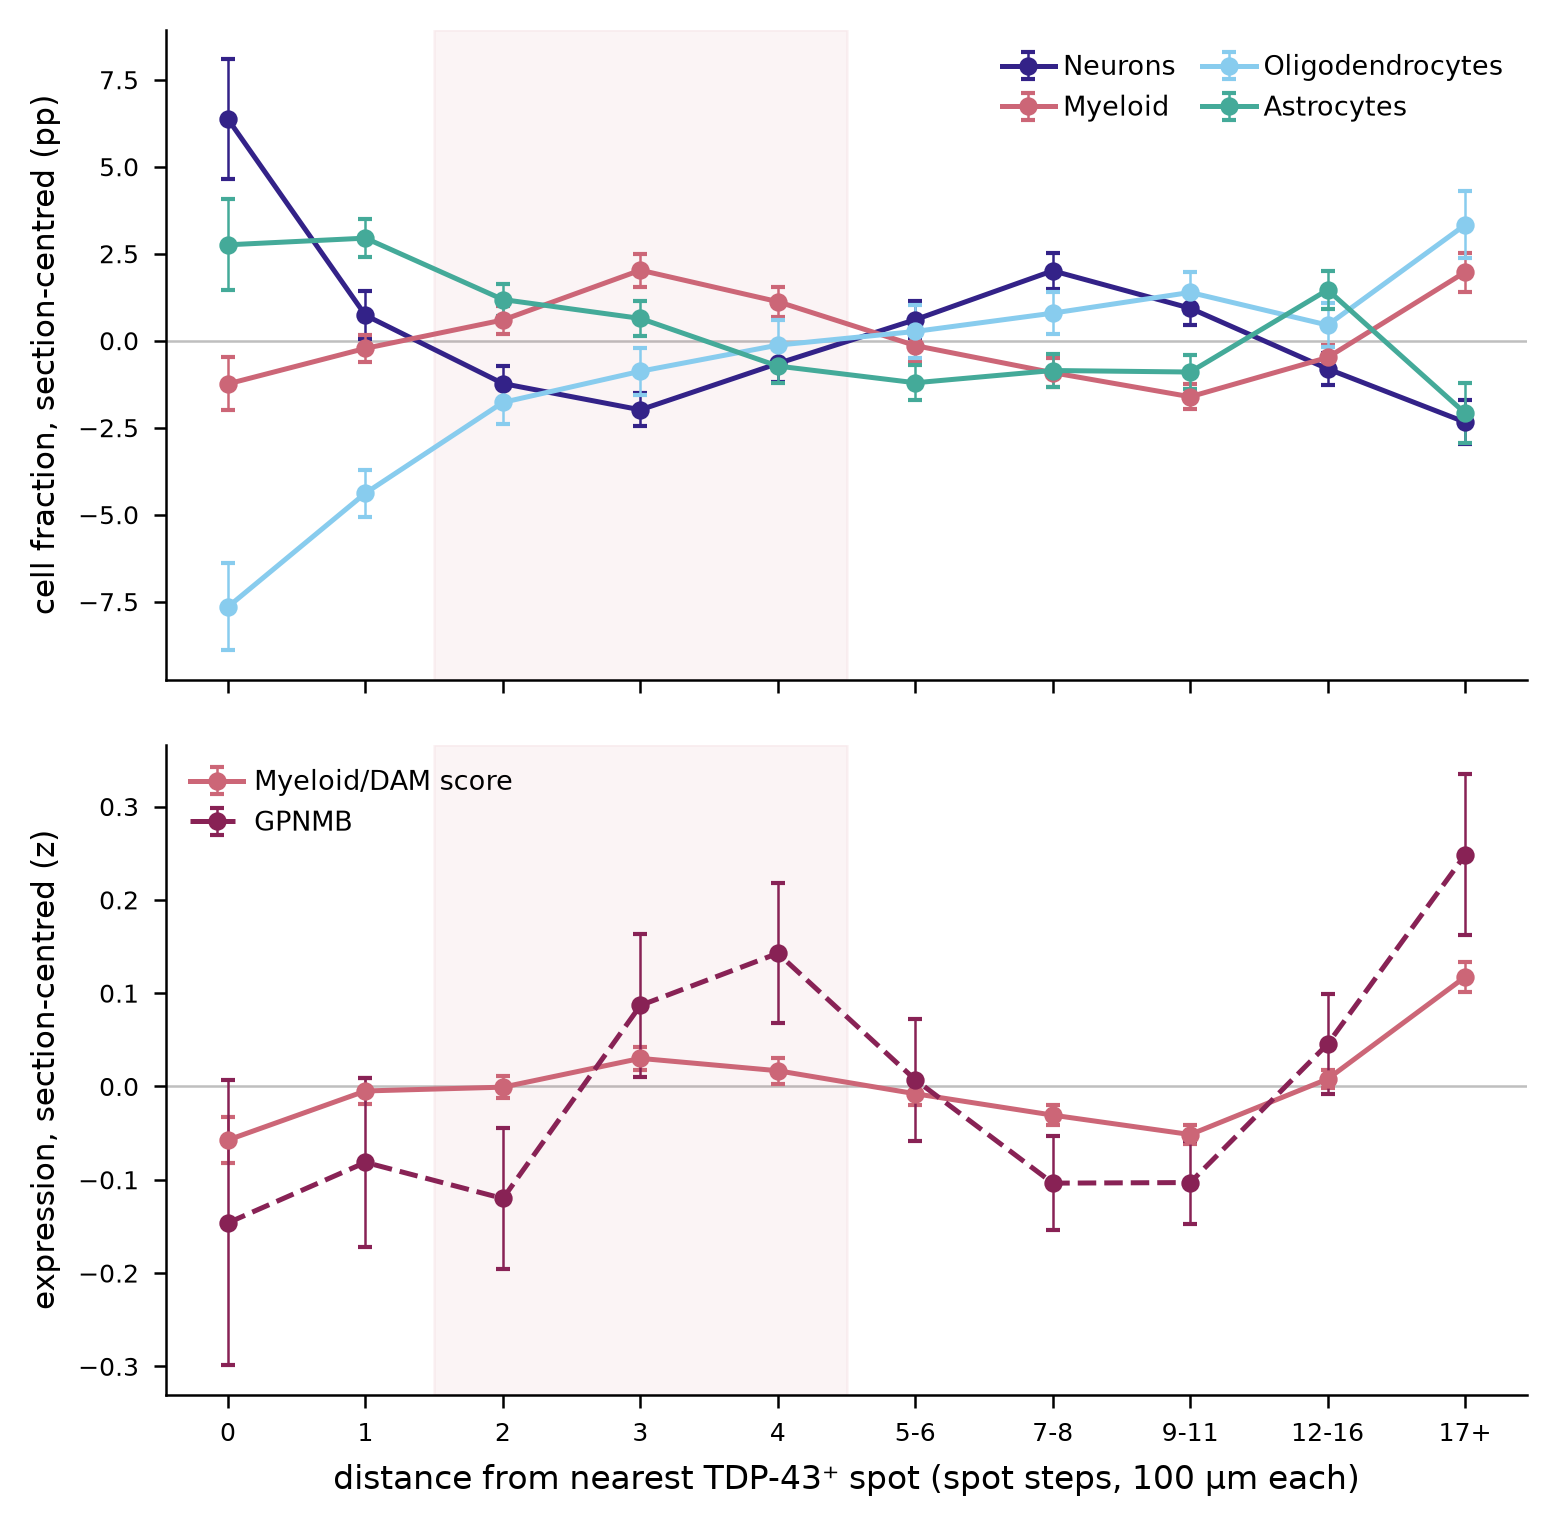
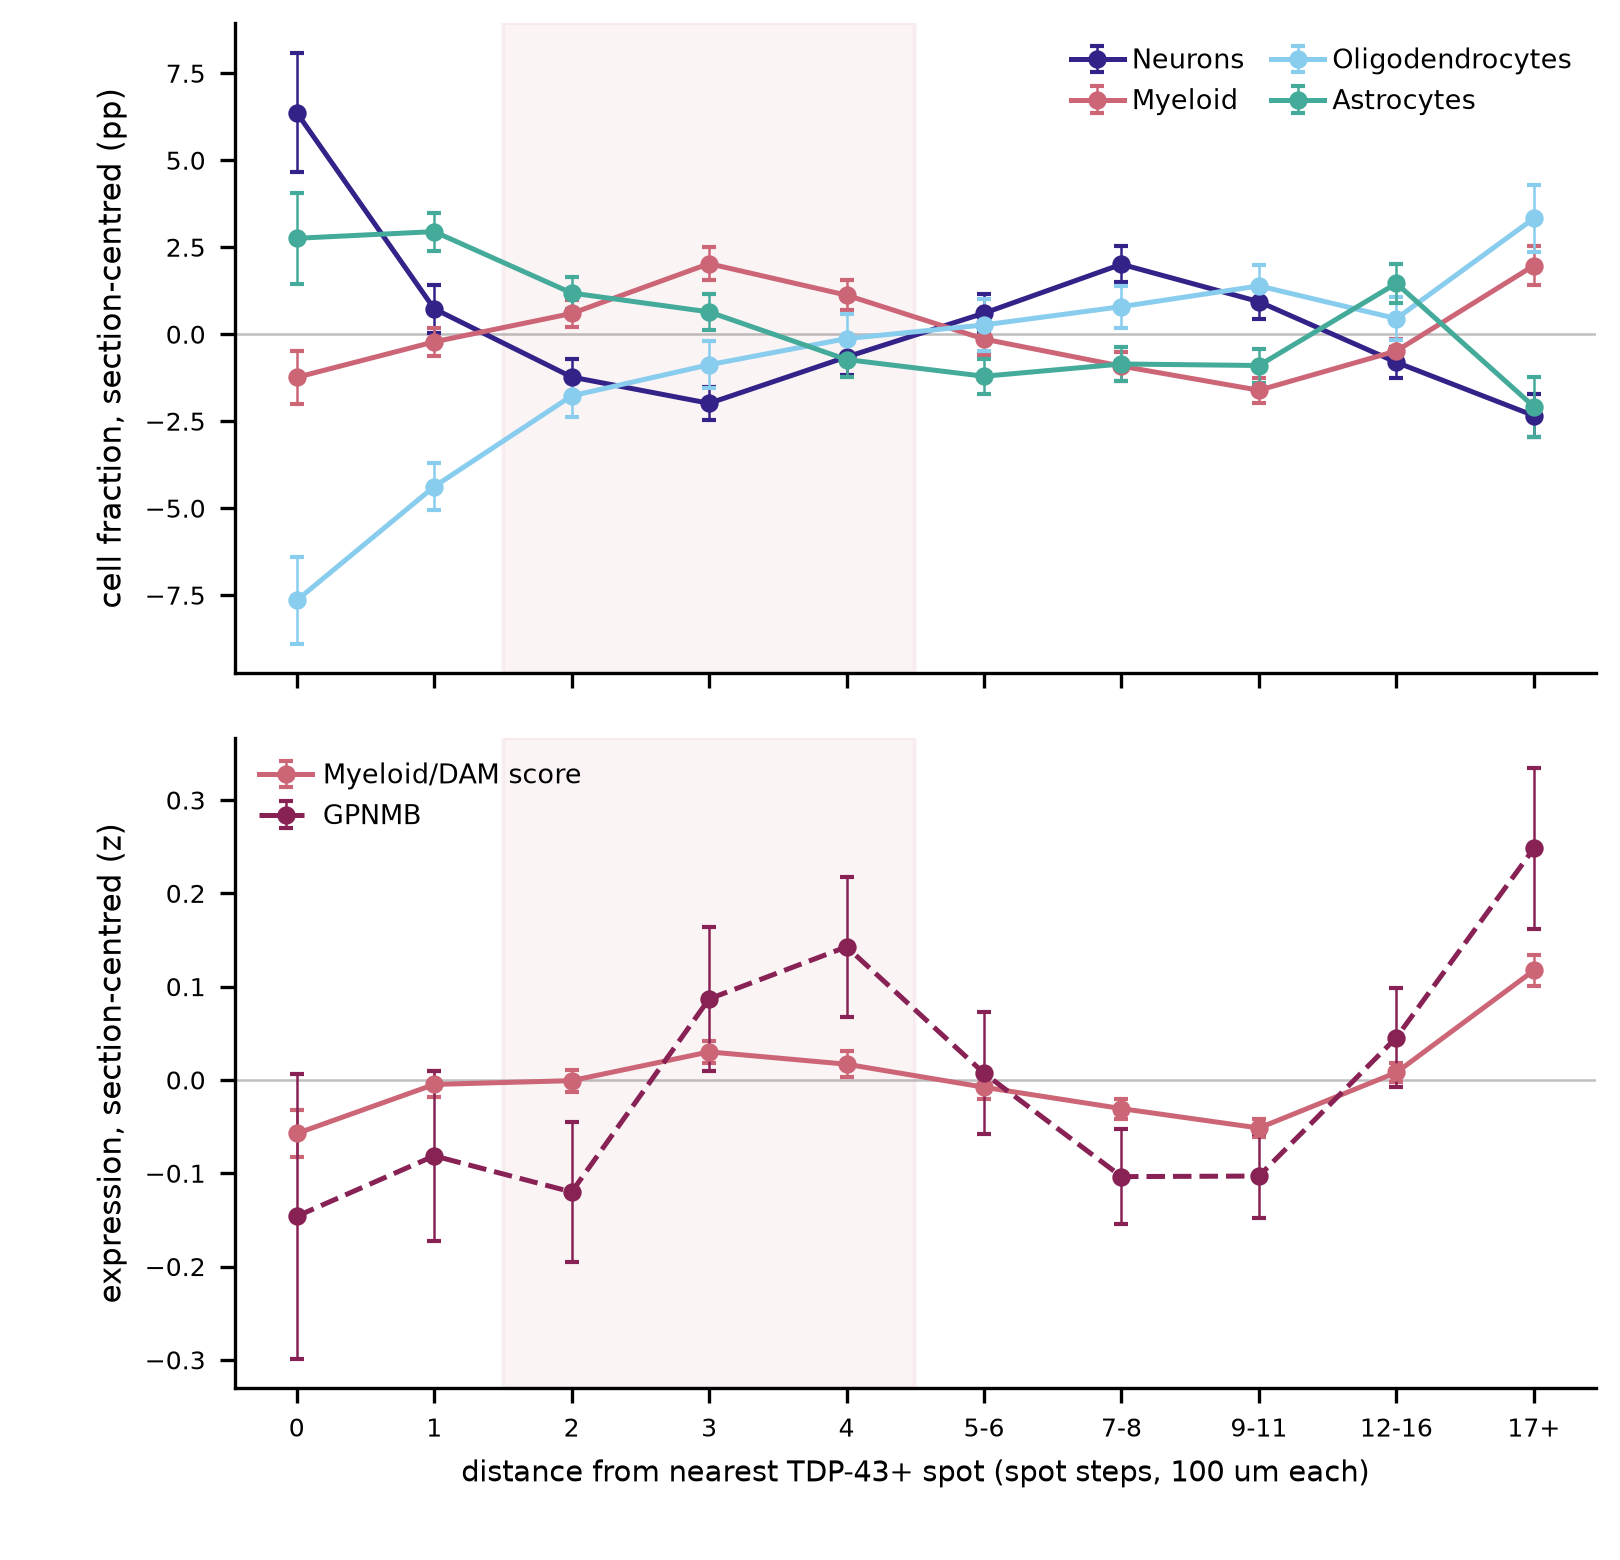
Save TDP-43 perilesional analysis: stage 23 script + resume note (parked, not for SfN)

diff --git a/code/analysis/23_tdp43_perilesional.py b/code/analysis/23_tdp43_perilesional.py
@@ -1,0 +1,214 @@
+#!/usr/bin/env python
+"""
+Stage 23 (spatial arm): perilesional structure around TDP-43 pathology.
+
+MOTIVATION
+Stages 17 and 22 reported TDP-43 coupling as an honest negative. Both tested a
+MONOTONE relationship (grade ladder; proximal vs matched-distant), which cannot
+detect a peak at an intermediate radius. This stage re-examines the question at
+fine distance resolution inside the authors' annotated neighbourhood.
+
+KEY FACT ESTABLISHED HERE (geometry, not assumption)
+The authors' `auth_tdp43_a2_d2` levels are concentric dilation rings around
+manually marked TDP-43+ spots, identical to the micron in every section:
+    TDP43_positive   0 um    the spot itself (90 spots cohort-wide)
+    TDP43_adjacent   112 um  ring 1
+    Ring             200 um  ring 2      <- NOT a severity tier; a dilation ring
+    TDP43_distant    330 um  ring 3
+    Not_selected     ~2600 um median
+`auth_annotation_general` merges positive+adjacent into one "TDP43_adjacent"
+level (472 spots) = the paper's binary "TDP-43+" class.
+
+RESULT
+Within the anterior horn of the 4 lesion-richest sections, myeloid cell fraction
+and the Myeloid/DAM program form a HALO: the TDP-43+ spot itself is neuron-
+dominated (+6.4 pp neurons, -1.2 pp myeloid vs section mean) while myeloid
+peaks at ring 3-4 (300-400 um, +2.0 pp) and troughs at rings 9-11 (-1.6 pp).
+The gain is myeloid-SPECIFIC: at ring 3 neurons fall 2.0 pp and myeloid gains
+2.0 pp while oligodendrocytes still LOSE 0.9 pp and astrocytes gain 0.6 pp.
+Present in 3 of 4 sections; reversed in S4_GW35, whose lesions are 63% in the
+POSTERIOR horn so its anterior-horn distance field is anchored on few centres.
+
+CAVEATS
+- Spot-level and pseudoreplicated: the evidence is section consistency, not p.
+- Peak at 300-400 um is further than microglial process reach (~50-100 um), so
+  this is a local reactive field, not direct perineuronal ensheathment.
+- The rightmost distance bin (17+ rings) rises again for BOTH myeloid and
+  oligodendrocytes: that is the anterior-horn periphery abutting white matter,
+  an anatomical edge effect, not lesion-related. Do not read it as a 2nd peak.
+- Ring labels are nearest-lesion, not unique-lesion; in dense lesion clusters
+  the shells of neighbouring lesions merge.
+
+NOT USED for the SfN talk (user decision, Nov 2026); kept for later follow-up.
+"""
+import os
+for v in ("OMP_NUM_THREADS", "OPENBLAS_NUM_THREADS", "MKL_NUM_THREADS", "NUMBA_NUM_THREADS"):
+    os.environ[v] = "1"
+os.environ["KMP_AFFINITY"] = "disabled"; os.environ["OMP_PROC_BIND"] = "FALSE"
+import numpy as np, pandas as pd, h5py, scipy.sparse as spx
+from scipy import stats
+import matplotlib; matplotlib.use("Agg")
+import matplotlib.pyplot as plt
+
+ROOT = "/home/sunli/C9orf72-ALS"
+PROC = f"{ROOT}/data/processed"
+TAB, FIG = f"{ROOT}/results/tables", f"{ROOT}/results/figures"
+QC_H5 = f"{PROC}/GSE288365_qc.h5ad"                      # RAW integer UMI counts
+AM_H5 = f"{PROC}/GSE288365_annotated_authmeta.h5ad"      # log-normalised .X + author obs
+OBS_CSV = f"{TAB}/author_meta_merged_obs.csv"            # author obs, NaN-correct
+
+# ---------- gene sets: bulk118_ward_k3, spatial-detectable members ----------
+MYE = ["ADORA3","APOBR","APOC1","ARRB2","C1QC","C3AR1","CAPG","CD300A","CD53","CD68","CEBPA",
+       "CHIT1","CTSD","CTSS","CYBA","FXYD5","GPNMB","GRN","HCK","IFI30","IQGAP2","ITGB2",
+       "LAPTM5","LGALS3","LGALS9","NBEAL2","NCF2","NCKAP1L","PIK3R5","PLA2G7","PLAU","PYCARD",
+       "SIGLEC8","SLC37A2","SOAT1","SOD2","SPI1","STX3","SYK","TNFRSF14","TREM2","TYROBP",
+       "WDFY4","ANO6","ANXA2","CD63","DSP","EMP3","PAPOLA","S100A11","SLC38A2","SLC5A3"]
+AST = ["B3GAT2","BRINP1","CHCHD2","CKB","CNTN1","DAAM2","DCLK2","FAM181B","GABARAPL2","GJA1",
+       "GMPR","GPR37L1","HEPACAM","IL17D","ITM2C","LIX1","NADK2","NDRG2","NFIX","P2RY1","PRKX",
+       "PSD2","PYCR2","PYGM","SDC3","SLC24A4","SLC38A1","SMOX","TMEM47","TRIL"]
+OLI = ["ADD1","APBB1","CARNS1","CIRBP","CMTM5","CORO2B","DNHD1","EDIL3","GPR37","IGSF8","KLK6",
+       "LDB3","LLGL1","LSS","MAPK8IP2","MYRF","NFASC","OPALIN","PAQR4","PLLP","PPP1R16B","SLC24A2"]
+NEED = sorted(set(MYE + AST + OLI + ["GPNMB", "CHIT1"]))
+FEATS = ["Myeloid/DAM", "Astrocyte", "Oligo/myelin", "GPNMB", "CHIT1"]
+R4 = ["Anterior_horns", "Grey_matter", "White_matter", "Posterior_white_matter"]
+TDPORD = ["TDP43_positive", "TDP43_adjacent", "Ring", "TDP43_distant", "Not_selected"]
+
+# ---------- author obs (CSV holds NaN correctly; the h5ad categorical uses code -1,
+#            which `categories[codes]` silently decodes as the LAST category) ----------
+O = pd.read_csv(OBS_CSV, low_memory=False)
+
+# ---------- expression: raw counts -> CP10K -> log1p -> z across ALL spots ----------
+with h5py.File(QC_H5, "r") as h:
+    gv = h["var"][h["var"].attrs["_index"]][:].astype(str)
+    bq = h["obs"][h["obs"].attrs["_index"]][:].astype(str)
+    idx = {g: int(np.where(gv == g)[0][0]) for g in NEED if g in set(gv)}
+    X = h["X"]; indptr = X["indptr"][:]; n = len(indptr) - 1
+    keys = list(idx); M = np.zeros((n, len(keys)), np.float32); tot = np.zeros(n)
+    for s0 in range(0, n, 20000):
+        e = min(s0 + 20000, n); a0, a1 = indptr[s0], indptr[e]
+        m = spx.csr_matrix((X["data"][a0:a1], X["indices"][a0:a1], indptr[s0:e+1] - a0),
+                           shape=(e - s0, len(gv)))
+        tot[s0:e] = np.asarray(m.sum(1)).ravel()
+        M[s0:e] = m[:, [idx[k] for k in keys]].toarray()
+with h5py.File(AM_H5, "r") as h:
+    assert np.array_equal(h["obs"][h["obs"].attrs["_index"]][:].astype(str), bq), "spot order differs"
+    sp_xy = h["obsm"]["spatial"][:]
+    def dec(k):
+        g = h["obs"][k]
+        return np.asarray(g["categories"][:].astype(str))[g["codes"][:]] if isinstance(g, h5py.Group) else g[:]
+    arr, acc = dec("array_row").astype(int), dec("array_col").astype(int)
+assert len(O) == n, "obs csv / h5ad length mismatch"
+
+Z = pd.DataFrame((lambda L: (L - L.mean(0)) / L.std(0))(np.log1p(M / tot[:, None] * 1e4)), columns=keys)
+A = pd.DataFrame({"section_key": O.section_key.values, "donor": O.donor_id.values,
+                  "cond": O.condition.values, "anat": O.auth_manual.values,
+                  "tdp": O.auth_tdp43_a2_d2.values, "ar": arr, "ac": acc,
+                  "px": sp_xy[:, 0], "py": sp_xy[:, 1]})
+for nm, gl in [("Myeloid/DAM", MYE), ("Astrocyte", AST), ("Oligo/myelin", OLI)]:
+    A[nm] = Z[[g for g in gl if g in keys]].mean(1).values
+A["GPNMB"] = Z["GPNMB"].values; A["CHIT1"] = Z["CHIT1"].values
+A["neuron_frac"] = O["auth_norm_ct_Neurons"].values
+A["myeloid_frac"] = (O["auth_norm_ct_Microglia"].values
+                     + O["auth_norm_ct_ProliferatingMicroglia"].values
+                     + O["auth_norm_ct_Macrophages"].values)
+for ct in ["Oligodendrocytes", "Astrocytes"]:
+    A[ct] = O["auth_norm_ct_" + ct].values
+
+# ---------- verify the ring geometry (reproduces the dilation radii) ----------
+geo = []
+for sk, s in A[A.tdp.isin(TDPORD[:4])].groupby("section_key", observed=True):
+    pos = A[(A.section_key == sk) & (A.tdp == "TDP43_positive")]
+    if len(pos) == 0: continue
+    P0 = np.c_[pos.ac * 50.0, pos.ar * 100.0]
+    for lev in TDPORD[:4]:
+        q = s[s.tdp == lev]
+        if not len(q): continue
+        Q = np.c_[q.ac * 50.0, q.ar * 100.0]
+        d = np.sqrt(((Q[:, None, :] - P0[None, :, :]) ** 2).sum(-1)).min(1)
+        geo.append(dict(section=sk, level=lev, n=len(q), median_um=np.median(d)))
+pd.DataFrame(geo).to_csv(f"{TAB}/tdp43_grade_geometry.csv", index=False)
+
+# ---------- the 4 lesion-richest sections, anterior horn only ----------
+top4 = (A[A.tdp.isin(TDPORD[:4])].groupby("section_key", observed=True).size()
+        .sort_values(ascending=False).head(4).index.tolist())
+AH = A[(A.anat == "Anterior_horns") & A.section_key.isin(top4)].copy()
+for sk, s in AH.groupby("section_key", observed=True):
+    pos = A[(A.section_key == sk) & (A.tdp == "TDP43_positive")]
+    P0 = np.c_[pos.ac * 50.0, pos.ar * 100.0]
+    Q = np.c_[s.ac * 50.0, s.ar * 100.0]
+    AH.loc[s.index, "dist"] = np.sqrt(((Q[:, None, :] - P0[None, :, :]) ** 2).sum(-1)).min(1)
+
+EDG = [0, 60, 140, 240, 340, 450, 600, 800, 1100, 1600, 1e9]
+LBL = ["0", "1", "2", "3", "4", "5-6", "7-8", "9-11", "12-16", "17+"]
+AH["bin"] = pd.cut(AH.dist, EDG, labels=LBL, right=False)
+CEN = ["Myeloid/DAM", "GPNMB", "myeloid_frac", "neuron_frac", "Oligodendrocytes", "Astrocytes"]
+for c in CEN:                      # centre within section so section level cannot drive the profile
+    AH[c + "_c"] = AH[c] - AH.groupby("section_key", observed=True)[c].transform("mean")
+
+g = AH.groupby("bin", observed=True)
+P = pd.DataFrame({"n": g.size()})
+for c, lab in [("neuron_frac_c", "Neurons"), ("myeloid_frac_c", "Myeloid"),
+               ("Oligodendrocytes_c", "Oligodendrocytes"), ("Astrocytes_c", "Astrocytes"),
+               ("Myeloid/DAM_c", "Myeloid/DAM score"), ("GPNMB_c", "GPNMB")]:
+    P[lab] = g[c].mean(); P[lab + "_sem"] = g[c].sem()
+P = P.reindex(LBL).reset_index().rename(columns={"index": "bin"})
+P.to_csv(f"{TAB}/tdp43_perilesional_profile.csv", index=False)
+
+# per-section halo test: rings 2-4 (200-450 um) vs rings 7-11 (800-1600 um)
+rows = []
+for sk, s in AH.groupby("section_key", observed=True):
+    near, mid = s[s.bin.isin(["2", "3", "4"])], s[s.bin.isin(["7-8", "9-11"])]
+    rows.append(dict(section=sk, cond=s.cond.iloc[0], n_near=len(near), n_mid=len(mid),
+                     myeloid_near=near.myeloid_frac.mean(), myeloid_mid=mid.myeloid_frac.mean(),
+                     delta_pp=near.myeloid_frac.mean() - mid.myeloid_frac.mean(),
+                     p_spotlevel=stats.mannwhitneyu(near.myeloid_frac, mid.myeloid_frac)[1]))
+pd.DataFrame(rows).to_csv(f"{TAB}/tdp43_halo_persection.csv", index=False)
+
+# categorical version in the authors' own levels, rings 0-3 only, all sections with >=10 such spots
+AT = A[(A.anat == "Anterior_horns") & A.tdp.isin(TDPORD)].copy()
+AT["code"] = AT.tdp.map({v: i for i, v in enumerate(TDPORD)})
+R03 = AT[AT.tdp != "Not_selected"]
+keep = R03.groupby("section_key", observed=True).size()
+rows = []
+for sk in keep[keep >= 40].index:
+    s = R03[R03.section_key == sk]
+    r = dict(section=sk, cond=s.cond.iloc[0], n=len(s),
+             rho_neuron=stats.spearmanr(s.neuron_frac, s.code)[0],
+             rho_myeloid_frac=stats.spearmanr(s.myeloid_frac, s.code)[0])
+    for f in FEATS:
+        r["rho_" + f.replace("/", "_")] = (stats.spearmanr(s[f], s.code)[0]
+                                           if s[f].nunique() > 1 else np.nan)
+    rows.append(r)
+pd.DataFrame(rows).to_csv(f"{TAB}/tdp43_rings03_gradient.csv", index=False)
+
+# ---------- figure ----------
+CT4 = {"Neurons": "#332288", "Myeloid": "#CC6677",
+       "Oligodendrocytes": "#88CCEE", "Astrocytes": "#44AA99"}
+plt.rcParams.update({"font.size": 7, "axes.labelsize": 7, "xtick.labelsize": 6,
+                     "ytick.labelsize": 6, "figure.dpi": 150})
+fig, axes = plt.subplots(2, 1, figsize=(5.4, 5.2), sharex=True)
+x = np.arange(len(P))
+for lab, col in CT4.items():
+    axes[0].errorbar(x, P[lab], yerr=P[lab + "_sem"], color=col, marker="o", ms=3.4, lw=1.2,
+                     capsize=1.6, elinewidth=0.6, label=lab)
+for ax in axes:
+    ax.axhline(0, color="0.75", lw=0.6, zorder=0)
+    ax.axvspan(1.5, 4.5, color="#CC6677", alpha=0.07, zorder=0)
+    for sp_ in ("top", "right"): ax.spines[sp_].set_visible(False)
+axes[0].set_ylabel("cell fraction, section-centred (pp)", fontsize=7.4)
+axes[0].legend(frameon=False, fontsize=6.4, ncol=2, loc="upper right",
+               handletextpad=0.3, columnspacing=1.0)
+for lab, col, ls in [("Myeloid/DAM score", "#CC6677", "-"), ("GPNMB", "#882255", "--")]:
+    axes[1].errorbar(x, P[lab], yerr=P[lab + "_sem"], color=col, marker="o", ms=3.4, lw=1.2,
+                     capsize=1.6, elinewidth=0.6, ls=ls, label=lab)
+axes[1].set_ylabel("expression, section-centred (z)", fontsize=7.4)
+axes[1].legend(frameon=False, fontsize=6.4, loc="upper left", handletextpad=0.4)
+axes[1].set_xticks(x); axes[1].set_xticklabels(P["bin"])
+axes[1].set_xlabel("distance from nearest TDP-43+ spot (spot steps, 100 um each)")
+fig.subplots_adjust(left=0.145, right=0.985, top=0.985, bottom=0.11, hspace=0.10)
+fig.savefig(f"{FIG}/tdp43_perilesional_profile.png", dpi=300)
+
+print("sections used:", [s[:34] for s in top4])
+print(P[["bin", "n", "Neurons", "Myeloid", "Oligodendrocytes", "Astrocytes"]].round(2).to_string(index=False))
+print("\nwrote tdp43_{grade_geometry,perilesional_profile,halo_persection,rings03_gradient}.csv"
+      " and tdp43_perilesional_profile.png")

diff --git a/docs/tdp43_perilesional_note.md b/docs/tdp43_perilesional_note.md
@@ -1,0 +1,108 @@
+# TDP-43 perilesional myeloid halo — parked finding
+
+**Status:** complete, reproducible, **not used in the SfN talk** (decision Nov 2026).
+Picked up again? Start here, then run `code/analysis/23_tdp43_perilesional.py`.
+
+## What changed relative to the earlier negative
+
+Stages 17 and 22 reported TDP-43 coupling as an honest negative. Both tested a
+**monotone** relationship over the whole anterior horn — a grade ladder in 17, a
+proximal-vs-matched-distant contrast in 22. Neither can detect a peak at an
+intermediate radius, and both were dominated by far-field spots (median distance
+from a lesion 361–1,101 µm depending on section).
+
+The negative stands for what it tested. It was the wrong shape of test.
+
+## The annotation is geometry, not severity
+
+`auth_tdp43_a2_d2` levels are concentric dilation rings around manually marked
+TDP-43⁺ spots — identical to the micron in every section, zero variance:
+
+| level | radius | spots (cohort) |
+|---|--:|--:|
+| `TDP43_positive` | 0 µm (the spot itself) | 90 |
+| `TDP43_adjacent` | 112 µm (ring 1) | 382 |
+| `Ring` | 200 µm (ring 2) | 417 |
+| `TDP43_distant` | 330 µm (ring 3) | 891 |
+| `Not_selected` | ~2,600 µm median | 129,310 |
+
+`auth_annotation_general` merges positive + adjacent into a single
+`TDP43_adjacent` level (472 spots) = the paper's binary "TDP-43+" class.
+
+**`Ring` is a dilation ring, not a severity tier.** Stage 17 encoded the grade
+ladder as `Not_selected < TDP43_distant < TDP43_adjacent < Ring`, treating Ring as
+most severe. That ordering is wrong; Ring sits *between* adjacent and distant.
+Stage 17's conclusion is unaffected (it rested on donor-level sign inconsistency)
+but its docstring and REPORT §4.6 wording should be corrected if revisited.
+
+## The finding
+
+Anterior horn, 4 lesion-richest sections, values centred within section:
+
+| distance | neurons | **myeloid** | oligodendrocytes | astrocytes |
+|---|--:|--:|--:|--:|
+| 0 (TDP-43⁺ spot) | **+6.37** | −1.24 | −7.65 | +2.76 |
+| 2 (200 µm) | −1.23 | +0.60 | −1.77 | +1.18 |
+| **3 (300 µm)** | −1.99 | **+2.03** | −0.88 | +0.64 |
+| 4 (400 µm) | −0.65 | +1.12 | −0.13 | −0.73 |
+| 9–11 | +0.93 | **−1.61** | +1.39 | −0.90 |
+
+The Myeloid/DAM score peaks at ring 3 (+0.030) and GPNMB at ring 4 (+0.143).
+
+**Specificity is the load-bearing evidence.** At ring 3 neurons fall 1.99 pp and
+myeloid gains 2.03 pp — essentially the whole displaced fraction — while
+oligodendrocytes still *lose* 0.88 pp and astrocytes gain only 0.64 pp. Generic
+neuron displacement would lift every non-neuronal type proportionally. It doesn't.
+
+Per section: S1_GW50 +4.31 pp, C4_N280 +2.70, C3_AU87 +1.90, **S4_GW35 −4.33**.
+S4_GW35 has only 33% of its lesion spots in the anterior horn (63% posterior
+horn), so its anterior-horn distance field is anchored on few unrepresentative
+centres. Report as 3 of 4, not 4 of 4.
+
+## Caveats to carry
+
+- Spot-level and pseudoreplicated. The evidence is **section consistency**, not
+  the p-values, which are inflated by spatial autocorrelation.
+- Peak at 300–400 µm is **further than microglial process reach** (~50–100 µm):
+  a local reactive field, not direct perineuronal ensheathment.
+- The rightmost bin (17+ rings) rises for **both** myeloid and oligodendrocytes —
+  that is the anterior-horn periphery abutting white matter, an anatomical edge
+  effect. Not a second peak.
+- Ring labels are nearest-lesion, not unique-lesion; shells of neighbouring
+  lesions merge in dense clusters (C3_AU87, S1_GW50).
+- Only 90 TDP-43⁺ spots cohort-wide. This constrains effect size; it does not
+  establish absence of other structure.
+
+## If resumed, next steps worth taking
+
+1. **Donor-level test.** Collapse each section to one halo statistic (e.g.
+   rings 2–4 minus rings 7–11) and test across donors. Removes pseudoreplication;
+   n = 4 sections currently, so this needs more lesion-annotated tissue.
+2. **Lesion-level rather than spot-level.** Treat each connected TDP-43⁺ cluster
+   as the unit, build a radial profile per lesion, then average. Avoids the
+   merged-shell problem.
+3. **Per-genotype halo amplitude.** C9 vs sALS on halo height is the question the
+   project actually cares about; currently 2 sections per genotype.
+4. **Check against IBA1 immunofluorescence**, which is in the imaging channels
+   (`auth_cleaned_IBA1_binary`, `auth_IBA1_positive`) and is an independent
+   measurement of myeloid presence at the same coordinates.
+5. Re-examine whether the authors' Fig. 6i result (inflammatory genes up in
+   TDP-43-proximal neuron-enriched spots) is the rising limb of this halo; their
+   contrast pooled rings 0–1 against everything else, mixing the myeloid-poor
+   lesion spot with the start of the rise.
+
+## Files
+
+**Script:** `code/analysis/23_tdp43_perilesional.py` (self-contained; regenerates
+every table and the figure from the two h5ad files plus the author obs CSV).
+
+**Tables:** `tdp43_perilesional_profile.csv` (bin means/SEM/n, 4 cell types +
+2 expression features) · `tdp43_halo_persection.csv` (per-section rings 2–4 vs
+7–11) · `tdp43_rings03_gradient.csv` (authors' categorical levels, ordinal ρ) ·
+`tdp43_grade_geometry.csv` (the dilation radii) ·
+`tdp43_lesion_vs_unaffected_anteriorhorn.csv`.
+
+**Figures:** `tdp43_perilesional_profile.png` (the radial profile) ·
+`tdp43_lesion_maps.png` (where the lesions are, rings coloured, 4 sections) ·
+`tdp43_ring_gradient.png` (the earlier wide-bin version — superseded, kept for
+the record of why the monotone test missed this).
